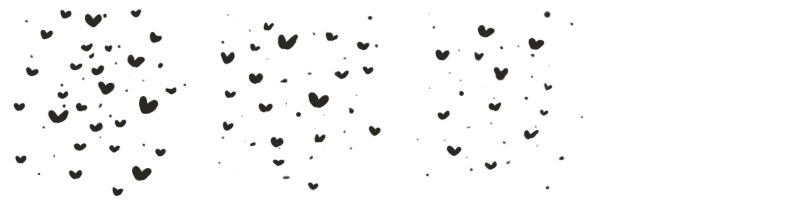
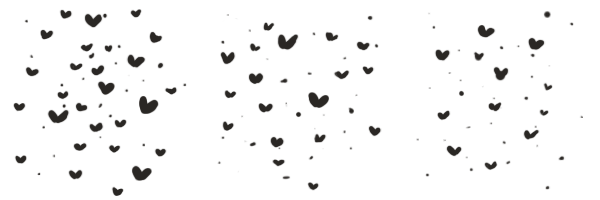
Fixed bug animation

diff --git a/src/Particle.cpp b/src/Particle.cpp
@@ -81,6 +81,7 @@ Bug::Bug(Vector position, Vector direction, Vector scale, Texture* texture)
 	: Particle(position,Vector(direction.x/5.0f,-direction.y/5.0f),scale,texture,5.0f)
 {
 	m_direction = Vector(direction.x/5.0f,-direction.y/5.0f);
+	m_animation = new Animation(&m_sprite,3,200,200, 20);
 	m_sprite.setOrigin(m_sprite.getSize()/2);
 	m_sprite.setColor(255,255,255,180);
 	if (direction.x > 0)
@@ -92,6 +93,13 @@ Bug::Bug(Vector position, Vector direction, Vector scale, Texture* texture)
 	//m_sprite.setColor(1,1,1,1);
 
 	m_life = 10;
+}
+
+bool Bug::Update(float DeltaTime)
+{
+	Particle::Update(DeltaTime);
+	m_animation->Update(DeltaTime);	
+	return false;
 }
 
 Cat::Cat(Vector position, Vector direction, Vector scale, Texture* texture)

diff --git a/include/Particle.h b/include/Particle.h
@@ -55,6 +55,11 @@ class Bug : public Particle
 public:
 	Bug(EGEMath::Vector Position, EGEMath::Vector Direction, EGEMath::Vector Scale, EGEMotor::Texture* texture);
 	~Bug(){}
+
+	bool Update(float DeltaTime);
+
+private:
+	Animation* m_animation;
 };
 
 class Cat : public Particle

diff --git a/src/Game.cpp b/src/Game.cpp
@@ -87,7 +87,6 @@ void Game::Update(const double& dt)
 		if (startButton->isPressed())
 			gameState = PLAY;
 		break;
-		break;
 	case PLAY:
 	case WARMUP:
 		_clock += dt;
